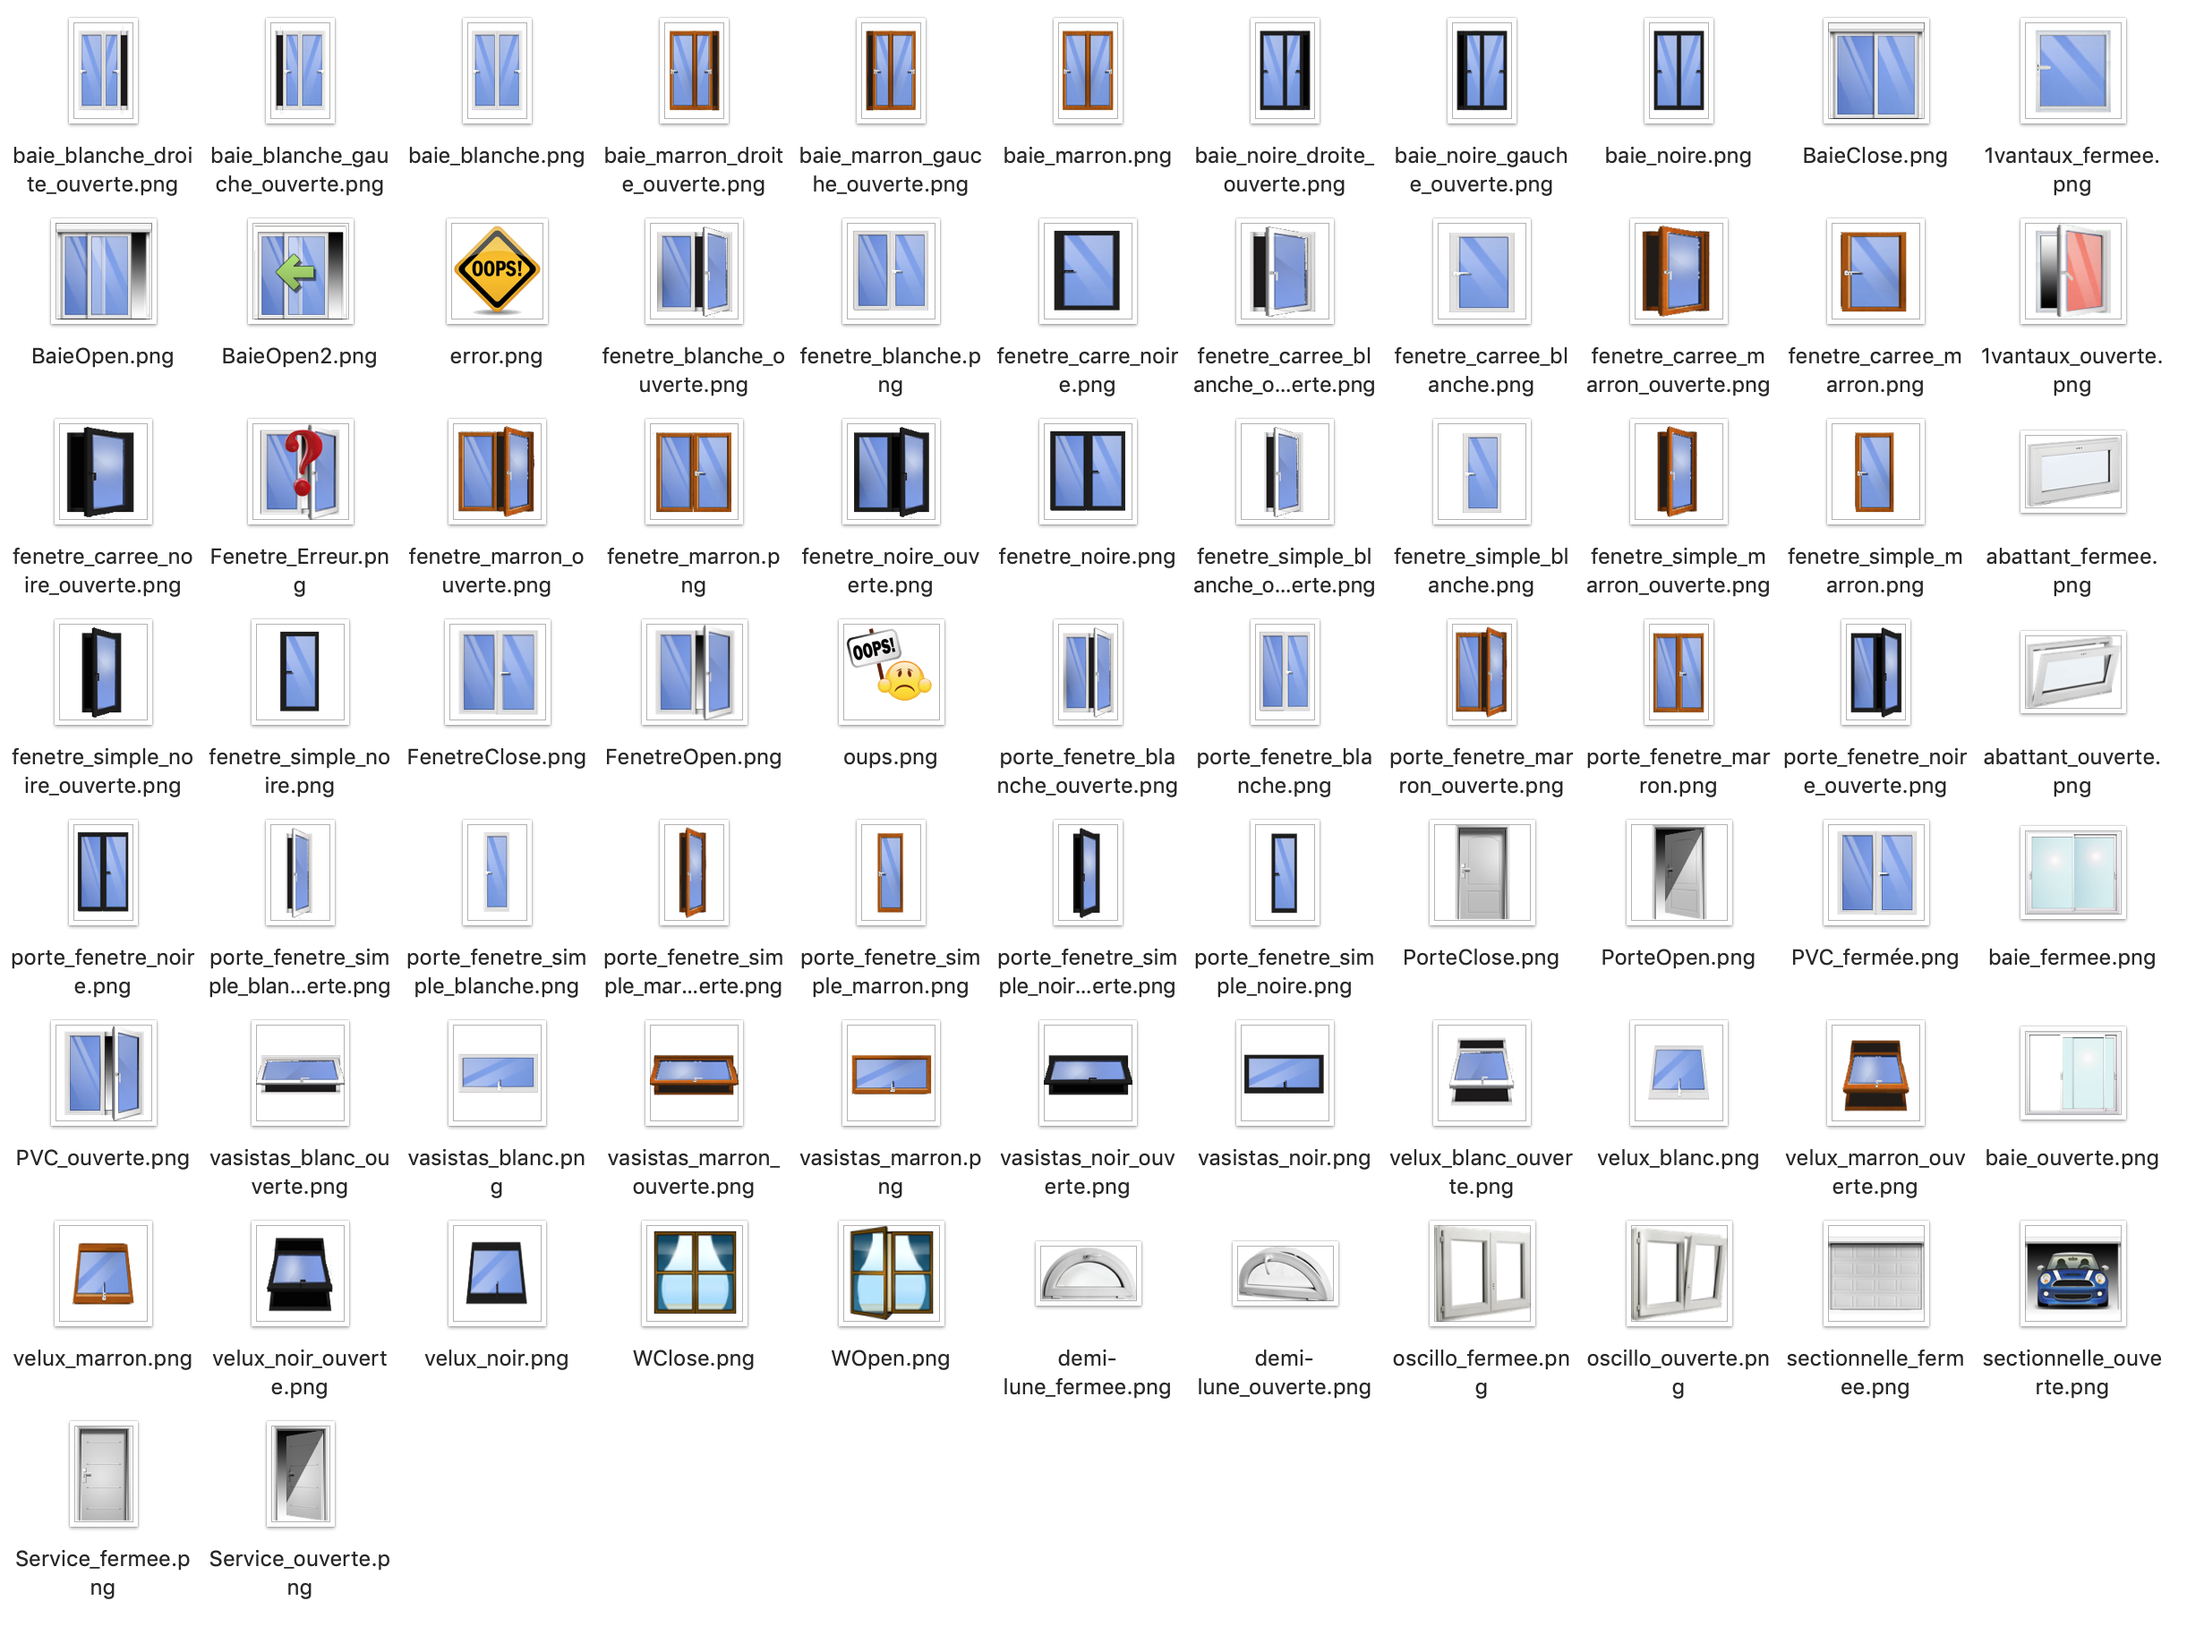
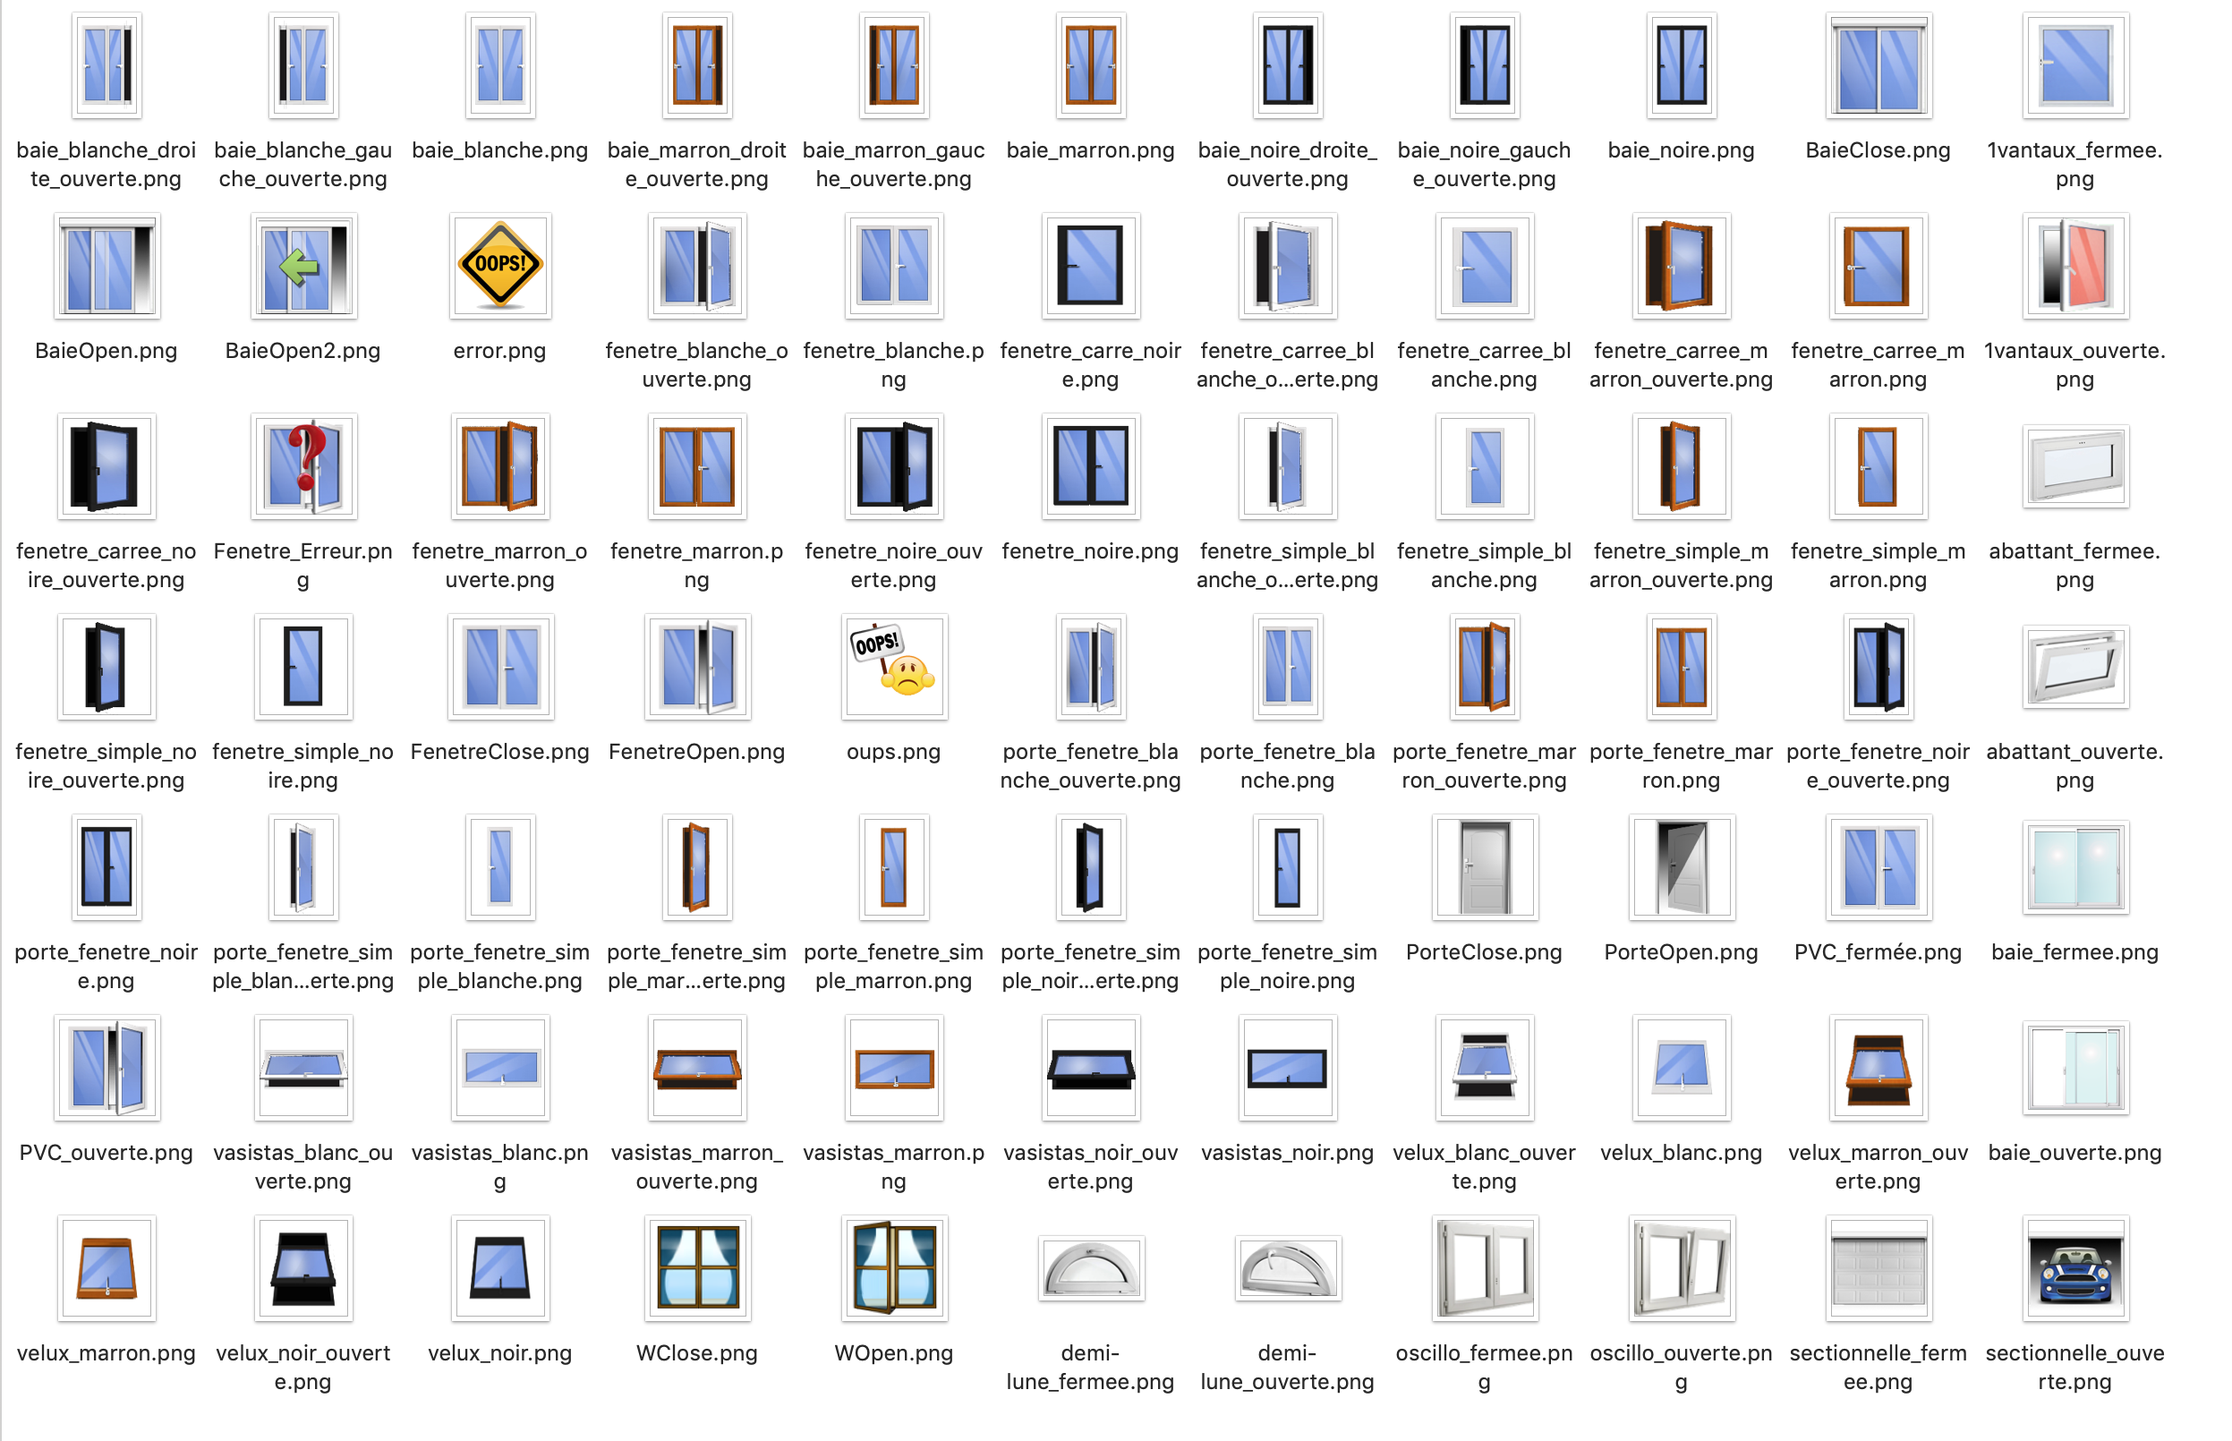
Ajout Doc Store numérique

Changed region(s): [[0.0, 0.0, 0.9878, 0.9627], [0.463, 0.9317, 0.5248, 0.9627]]

diff --git a/JEEDOM-Store-Velux-num.md b/JEEDOM-Store-Velux-num.md
@@ -1,0 +1,46 @@
+---
+layout: default
+title: JEEDOM-Store-Velux-num
+description: explication widget Store-VELUX (numérique)
+---
+[back](./)
+# Widget "Store-VELUX (numérique) " 
+
+Widget pour Jeedom permettant d'afficher une icône pour une fonction de type <b>info binaire</b>
+<p><img src="Img/RESULTAT - JEEDOM-Store-Velux-num.png" alt="Resultat" /></p>
+
+<h4 id="TaIlle">Taille des images ou des icônes</h4>
+Il est possible de spécifier la hauteur et la largeur des icônes ou images par l'ajout des paramètres optionnels suivant :
+<blockquote>
+        <ul>
+            <li><b>sizeh</b> : Permet de choisir la hauteur de l'image <i>(valeur par défaut : 90)</i></li>
+            <li><b>sizew</b> : Permet de choisir la largeur de l'image <i>(valeur par défaut : 90)</i></li>
+        </ul>
+</blockquote>
+ 
+<h4 id="Aide">Autres paramétrages possible et Aide</h4>
+<blockquote>
+        <ul>
+            <li><a href="JEEDOM-AIDE-CONFIG-INFO.html">Aide ajout Des paramétres pour un widget Info</a></li>
+            <li><a href="JEEDOM-AIDE-Error.html">Paramétrage image de défaut</a></li>
+            <li><a href="JEEDOM-AIDE-STATS.html">Afficher les statistiques</a></li>
+            <li><a href="JEEDOM-AIDE-STATS TEMPS.html">Affichage des informations de durée sur les widgets info (binaire, numérique)</a></li>
+        </ul>
+</blockquote>
+
+<hr />
+<h3 id="Add img">Ajout d'image</h3>
+<hr />
+<blockquote>
+        Il est possible d'inclure d'autres icônes dans le widget.<br/>
+        Le nommage des images n'est pas normalisé sur ce widget
+</blockquote>
+
+<hr />
+<dl>
+    <dt>Mise à jour JAG - 20190609<br/>
+    <a href="https://github.com/JEALG/JEEDOM-Store-Velux-num/commits/master">Changelog WIDGET</a><br/>
+    <a href="https://github.com/JEALG/JEEDOM-Widget_JAG-doc/commits/master">Changelog DOC</a></dt>
+</dl>
+<hr />
+[back](./)

diff --git a/JEEDOM-Fenetre-IMG--MOBILE-README.md b/JEEDOM-Fenetre-IMG--MOBILE-README.md
@@ -9,7 +9,7 @@ description: explication widget Fenetre-IMG (mobile)
 Widget pour Jeedom permettant d'afficher une icône pour une fonction de type <b>info binaire</b>
 <p><img src="Img/RESULTAT - JEEDOM-Fenetre-IMG.png" alt="Resultat" /></p>
 <blockquote>
-Le widget inclus d'office 77 icônes. Il est possible d'ajouter ses propres icônes.
+Le widget inclus d'office 75 icônes. Il est possible d'ajouter ses propres icônes.
 </blockquote>
 
 <p><img src="Img/VISUEL - JEEDOM-Fenetre-IMG.png" alt="Visuels" /></p>

diff --git a/JEEDOM-Fenetre-IMG-README.md b/JEEDOM-Fenetre-IMG-README.md
@@ -9,7 +9,7 @@ description: explication widget Fenêtre-IMG
 Widget pour Jeedom permettant d'afficher une icône pour une fonction de type <b>info binaire</b>
 <p><img src="Img/RESULTAT - JEEDOM-Fenetre-IMG.png" alt="Resultat" /></p>
 <blockquote>
-Le widget inclus d'office 77 icônes. Il est possible d'ajouter ses propres icônes.
+Le widget inclus d'office 75 icônes. Il est possible d'ajouter ses propres icônes.
 </blockquote>
 
 <p><img src="Img/VISUEL - JEEDOM-Fenetre-IMG.png" alt="Visuels" /></p>

diff --git a/README.md b/README.md
@@ -49,6 +49,7 @@
     <li><a href="./JEEDOM-Fenetre-IMG-README.html">Widget Dashboard : <b>Fenêtre-IMG</b></a></li>
     <li><a href="./JEEDOM-Fenetre-IMG--MOBILE-README.html">Widget Mobile : <b>Fenêtre-IMG</b></a></li>
     <li><a href="./JEEDOM-Store-Velux.html">Widget Dashboard : <b>Store-Velux</b></a></li>
+    <li><a href="./JEEDOM-Store-Velux-num.html">Widget Dashboard : <b>Store-VELUX (numérique)</b></a></li>
 </ul>
 
 <h1 id="Température">Température</h1>
